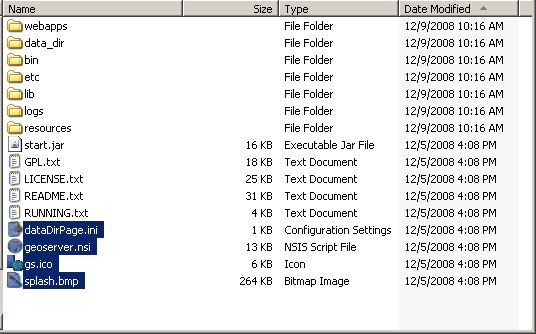
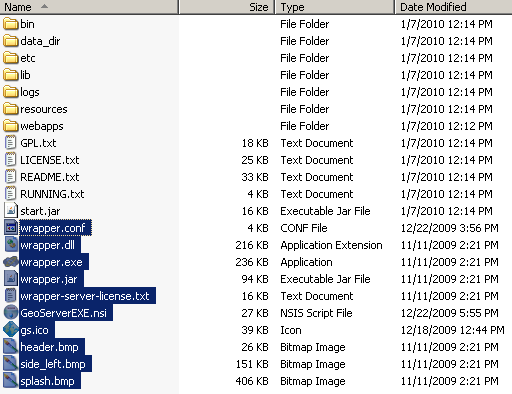
Updating release guide to reflect new Windows installer
git-svn-id: http://svn.codehaus.org/geoserver/branches/2.0.x@13885 ef1d6e69-97e5-0310-af46-8a06194da32a

Former-commit-id: 71df10d0cd07483071781f8d7a4462dca1d61f9b [formerly bcaacad8153e5c7cccab1f44cbf87aed92a78da1]
Former-commit-id: 7762b086174ed7e6ec92d0cf56ab7ebec0113893

Changed region(s): [[0.0, 0.0, 1.0, 1.0]]

diff --git a/doc/en/developer/source/release-guide/index.rst b/doc/en/developer/source/release-guide/index.rst
@@ -19,15 +19,13 @@ Prerequisites
 
 The following are necessary to perform a GeoServer release:
 
-   #. Commit access to `GeoServer svn <https://svn.codehaus.org/geoserver>`_
-   #. Edit access to the `GeoServer wiki <http://geoserver.org>`_
-   #. Administration rights to the `GeoServer bug tracker <http://jira.codehaus.org/browse/GEOS>`_
+#. Commit access to `GeoServer svn <https://svn.codehaus.org/geoserver>`_
+#. Edit access to the `GeoServer wiki <http://geoserver.org>`_
+#. Administration rights to the `GeoServer bug tracker (JIRA) <http://jira.codehaus.org/browse/GEOS>`_
 
-For steps 2 and 3 above you may also ask someone on the developer list to 
-perform the associated steps.
+For steps 2 and 3 above you may also ask someone on the developer list to perform the associated steps.
 
-If a parallel GeoTools release is being preformed, see the `GeoTools Release Guide <http://docs.codehaus.org/display/GEOT/How+to+cut+a+release>`_. Alternatively
-you can (nicely) ask one of the GeoTools developers to perform the release for you.
+If a parallel GeoTools release is being preformed, see the `GeoTools Release Guide <http://docs.codehaus.org/display/GEOT/How+to+cut+a+release>`_. Alternatively you can (nicely) ask one of the GeoTools developers to perform the release for you.
 
 Update source code
 ------------------
@@ -101,21 +99,20 @@ Update version numbers in tag
 
 #. Upgrade the version number in the following files::
 
-     src/release/installer/win/geoserver.nsi
-     src/release/installer/win-ng/GeoServerEXE.nsi
-     src/release/installer/win-ng/bin/wrapper/wrapper.conf
+     src/release/installer/win/GeoServerEXE.nsi
+     src/release/installer/win/wrapper.conf
      src/release/installer/mac/GeoServer.app/Contents/Info.plist
      src/release/bin.xml
      src/release/doc.xml
      src/release/src.xml
      src/web/src/main/java/ApplicationResources*
-     doc/user/source/conf.py
-     doc/developer/source/conf.py
+     doc/en/user/source/conf.py
+     doc/en/developer/source/conf.py
      
 
    Example (using sed)::
 
-     sed -i 's/1.7.1/1.7.2/g' release/installer/win/geoserver.nsi
+     sed -i 's/1.7.1/1.7.2/g' src/release/installer/win/GeoServerEXE.nsi
 
 #. Commit changes::
 
@@ -124,7 +121,7 @@ Update version numbers in tag
 Upgrade branch pom versions
 ---------------------------
 
-#. Upgrade branch (not in the newly-created tag!) pom version numbers::
+#. Update branch (*not in the newly-created tag!*) pom version numbers to include the next version with a "-SNAPSHOT" suffix::
 
      find . -name pom.xml -exec sed -i 's/[VERSION]-SNAPSHOT/[NEWVERSION]-SNAPSHOT/g' {} \;
 
@@ -134,12 +131,12 @@ Upgrade branch pom versions
 
 #. Commit changes::
 
-      svn commit -m "Upgrading pom version to <NEWVERSION>-SNAPSHOT" .
+      svn commit -m "Upgrading pom version to [NEWVERSION]-SNAPSHOT" .
 
 Set tag pom versions
 --------------------
 
-#. Set tag pom version numbers::
+#. Set tag pom version numbers to the correct version number (and removing the "-SNAPSHOT" suffix)::
 
      find . -name pom.xml -exec sed -i 's/[VERSION]-SNAPSHOT/[VERSION]/g' {} \;
 
@@ -149,7 +146,7 @@ Set tag pom versions
 
 #. Commit changes::
 
-     svn commit -m "Setting pom versions to 1.7.1" .
+     svn commit -m "Setting pom versions to [VERSION]" .
 
 Build release artifacts
 -----------------------
@@ -190,7 +187,7 @@ Build documentation
 
 .. note::
 
-   Building the GeoServer documentation requires the following be installed
+   Building the GeoServer documentation requires the following be installed:
 
      * `Sphinx <http://sphinx.pocoo.org/>`_, version 0.6 or greater
 
@@ -324,82 +321,46 @@ Hand testing
 Start GeoServer with the release data directory and test by hand. A checklist of 
 things to test can be found in the :ref:`release_testing_checklist`.
 
-Build Windows installer (legacy)
---------------------------------
+Build Windows installer
+-----------------------
 
-.. note:: 
 
-   This step requires a Windows machine.
+.. note:: This step requires a Windows machine.
 
-#. If necessary download and install `NSIS <http://nsis.sourceforge.net/Main_Page>`_.
+#. Download and install `NSIS <http://nsis.sourceforge.net/>`_.
+
+#. Install the `NSIS Access Control plugin <http://nsis.sourceforge.net/AccessControl_plug-in>`_.  The simplest way to do this is to download the zip, extract the two .DLL files (:file:`AccessControl.dll` and :file:`AccessControlW.dll`) and copy them to the NSIS plugins directory (usually :file:`C:\\Program Files\\NSIS\\Plugins`).
 
 #. Unzip the binary GeoServer package::
 
         unzip geoserver-[VERSION]-bin.zip
 
-#. Copy the files from :file:`src/release/installer/win` to the root of the unpacked archive::
+#. Copy the files from :file:`src/release/installer/win` to the root of the unpacked archive (the same directory level as the :file:`start.jar`)::
 
-      geoserver.nsi
-      dataDirPage.ini
+      GeoServerEXE.nsi
       gs.ico
+      header.bmp
+      side_left.bmp
       splash.bmp
+      wrapper.conf
+      wrapper.dll
+      wrapper.exe
+      wrapper.jar
+      wrapper-server-license.txt
 
-   .. figure: win-installer1.png
+   .. figure:: win-installer1.png
       :align: center
 
-#. Right-click on the installer script :file:`geoserver.nsi` and select **Compile Script**.  
+#. Right-click on the installer script :file:`GeoServerEXE.nsi` and select :command:`Compile Script`.  
 
    .. figure:: win-installer2.png
       :align: center
 
-After successfully compiling the script an installer named :file:`geoserver-[VERSION].exe` will be located in the root of the unpacked archive.
+After successfully compiling the script, an installer named :file:`geoserver-[VERSION].exe` will be located in the root of the unpacked archive.
 
-Build Windows installer (new)
------------------------------
+.. figure:: win-installer3.png
+   :align: center
 
-.. note:: 
-
-   This step requires a Windows machine.
-
-#. If necessary download and install `NSIS <http://nsis.sourceforge.net/Main_Page>`_.
-
-#. Unzip the binary GeoServer package::
-
-      unzip geoserver-[VERSION]-bin.zip
-
-#. Copy the files from :file:`src/release/installer/win-ng` to the root of the unpacked 
-   archive::
-
-      GeoServerEXE.nsi
-      creds.ini
-      datadir.ini
-      jdk.ini
-      ready.ini
-      gs.ico
-      side_left.bmp
-      splash.bmp
-      header.bmp
-      wrapper.exe
-      wrapper-server-license.txt
-      bin/wrapper/wrapper.conf
-      bin/wrapper/lib/wrapper.dll
-      bin/wrapper/lib/wrapper.jar
-      bin/wrapper/lib/wrappertest.jar
-
-   .. figure:: win-installer3.png
-      :align: center
-
-   .. warning:: Be sure to preserve path information when copying!  There should be a :file:`wrapper` directory inside the :file:`bin` directory after copying!
-
-   .. figure:: win-installer4.png
-      :align: center
-
-#. Right-click on the installer script :file:`GeoServerEXE.nsi` and select **Compile Script**.  
-
-   .. figure:: win-installer5.png
-      :align: center
-
-After successfully compiling the script an installer named :file:`geoserver-[VERSION]-ng.exe` will be located in the root of the unpacked archive.
 
 Build Mac OS X installer
 ------------------------
